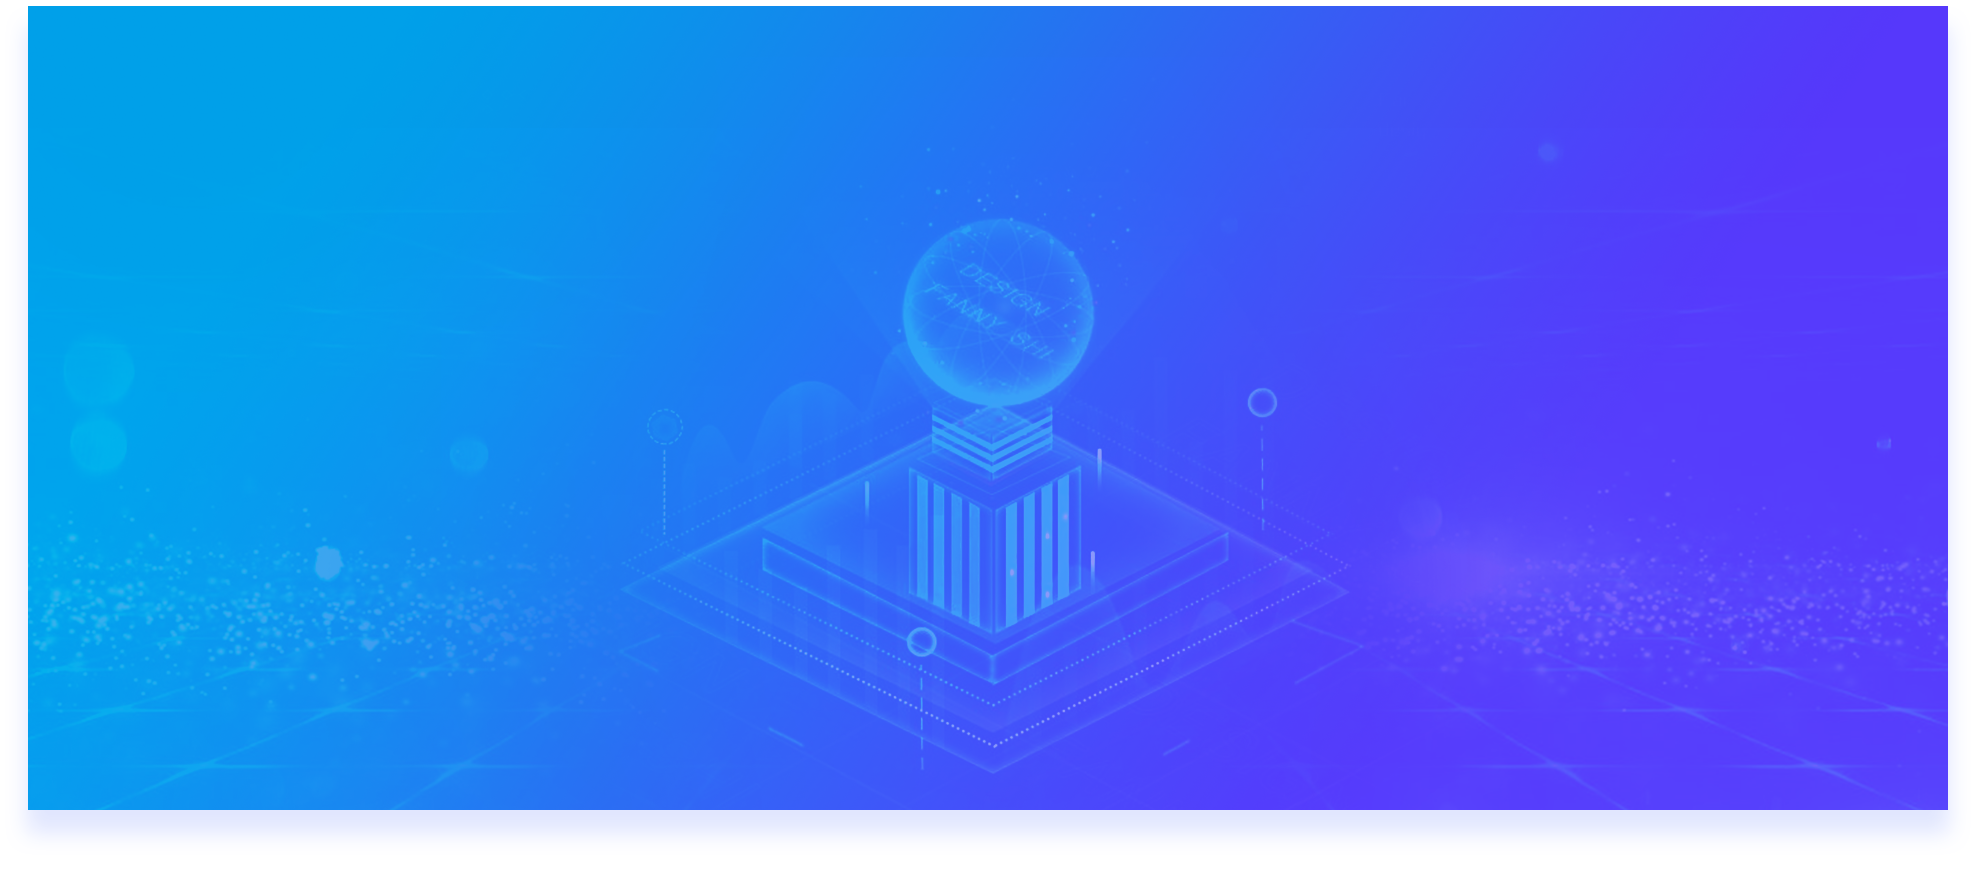
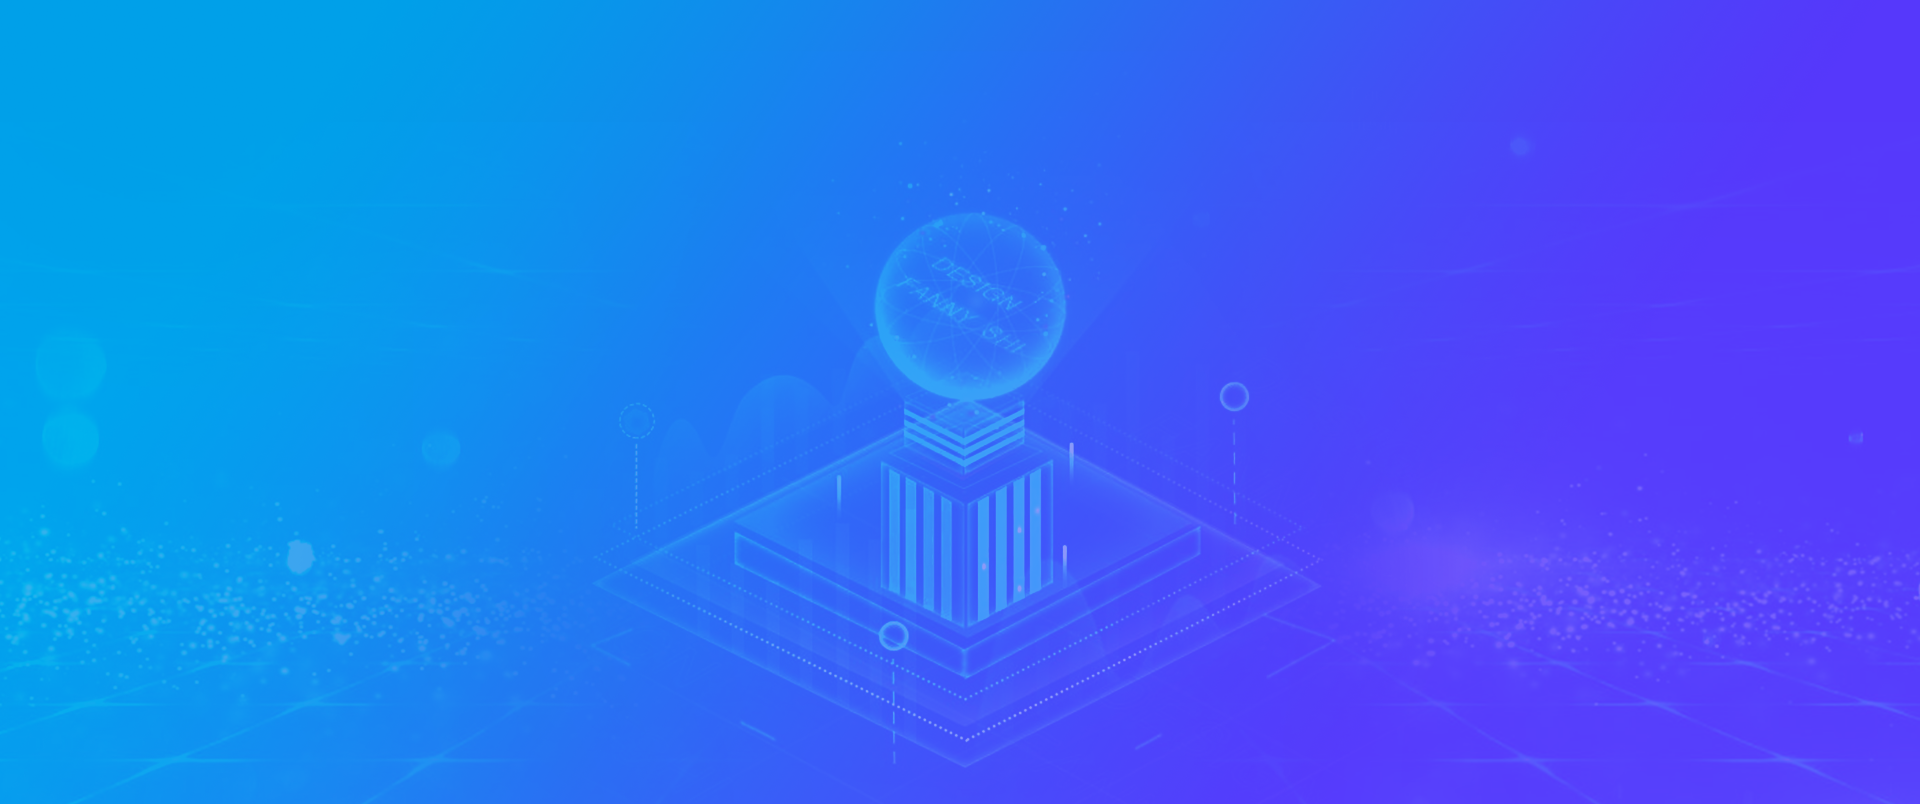
1

diff --git a/src/views/Home.vue b/src/views/Home.vue
@@ -1,21 +1,68 @@
 <template>
-  <div class="home">
+  <div class="home-banner">
     <img src="@/assets/home_back.png" alt="" />
+    <div class="wz">
+      <h1>Senkuage TOKEN</h1>
+      <h5>What is Senkuage Token and what is it used for?</h5>
+    </div>
+  </div>
+  <div class="home-content">
+    <div class="home-publicity">
+      <img src="@/assets/home/login-token.png" alt="" />
+      <h3>COMPLETELY VALUELESS</h3>
+      <h6>
+        Senkuage tokens are valueless and serve as governance tokens for
+        Senkuage protocol
+      </h6>
+    </div>
   </div>
 </template>
 
 <script>
-// @ is an alias to /src
-
 export default {
   name: "Home",
 };
 </script>
 <style lang="scss" scoped>
-.home {
-  background: linear-gradient(to left, #5638fb, #00a0e9);
+.home-banner {
+  position: relative;
   img {
     width: 100%;
+    vertical-align: top;
+  }
+  .wz {
+    color: #fff;
+    position: absolute;
+    top: 55%;
+    left: 50%;
+    transform: translate(-50%, -50%);
+    white-space: nowrap;
+    text-align: center;
+    h5 {
+      font-weight: 400;
+      margin-top: 1.5rem;
+    }
+  }
+}
+.home-content {
+  .home-publicity {
+    border: 1px solid red;
+    width: 15rem;
+    margin: 1rem auto;
+    text-align: center;
+    img {
+      width: 2.5rem;
+    }
+    h3 {
+      margin-top: 0.5rem;
+      color: #333333;
+    }
+    h6 {
+      padding: 0 2rem;
+      color: #563afc;
+      margin-top: 0.5rem;
+      font-weight: 400;
+    }
   }
 }
 </style>

diff --git a/src/components/HeadMain.vue b/src/components/HeadMain.vue
@@ -20,6 +20,7 @@ export default {
 <style lang="scss" scoped>
 .header {
   position: absolute;
+  z-index: 1;
   top: 0.8rem;
   left: 50%;
   transform: translateX(-50%);
@@ -52,7 +53,7 @@ export default {
     padding: 0 0.25rem;
     border-radius: 0.2rem;
     color: #fff;
-    background: linear-gradient(to right, #22bffe, #00f4ee);
+    // background: linear-gradient(to right, #22bffe, #00f4ee);
   }
 }
 </style>

diff --git a/src/App.vue b/src/App.vue
@@ -1,6 +1,8 @@
 <template>
   <Head-Main />
-  <router-view class="content-main" />
+  <div class="content-main">
+    <router-view />
+  </div>
   <Footer-Main />
 </template>
 <script>
@@ -16,7 +18,6 @@ export default {
 </script>
 <style lang="scss" scoped>
 .content-main {
-  padding-top: 2rem;
   min-height: 100px;
   flex: 1;
 }
